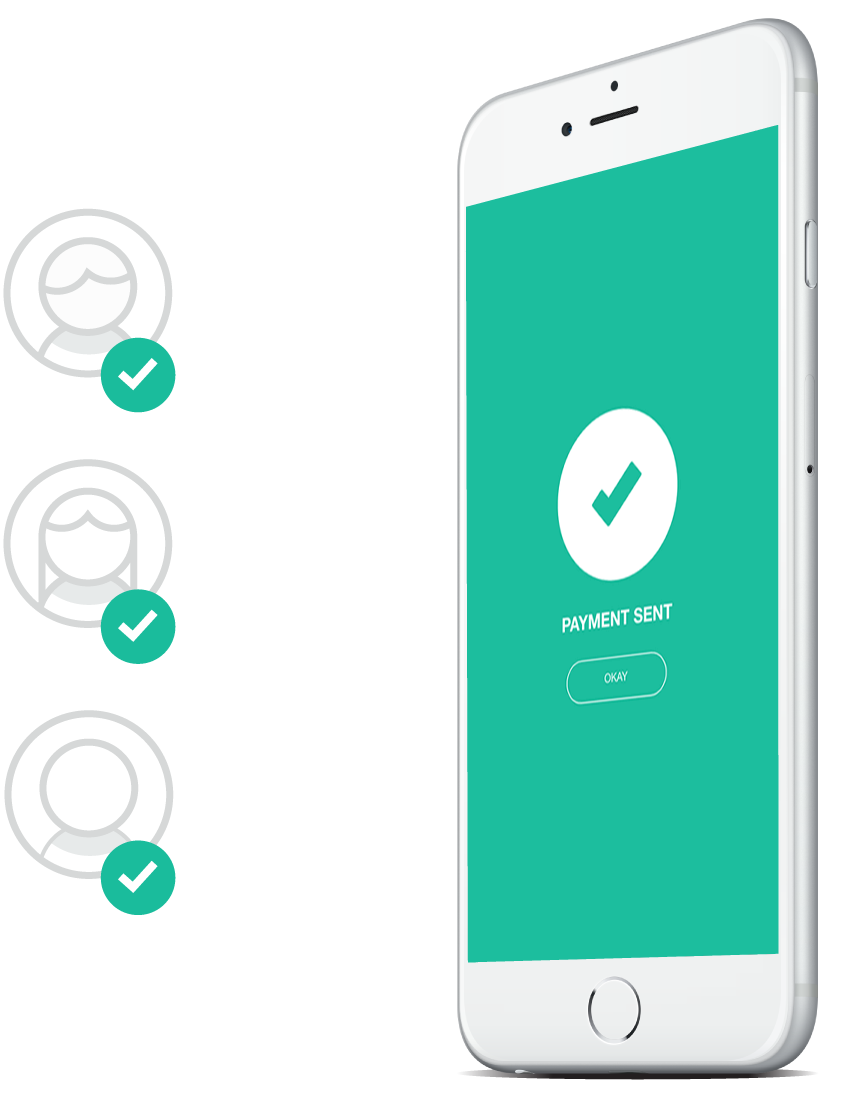
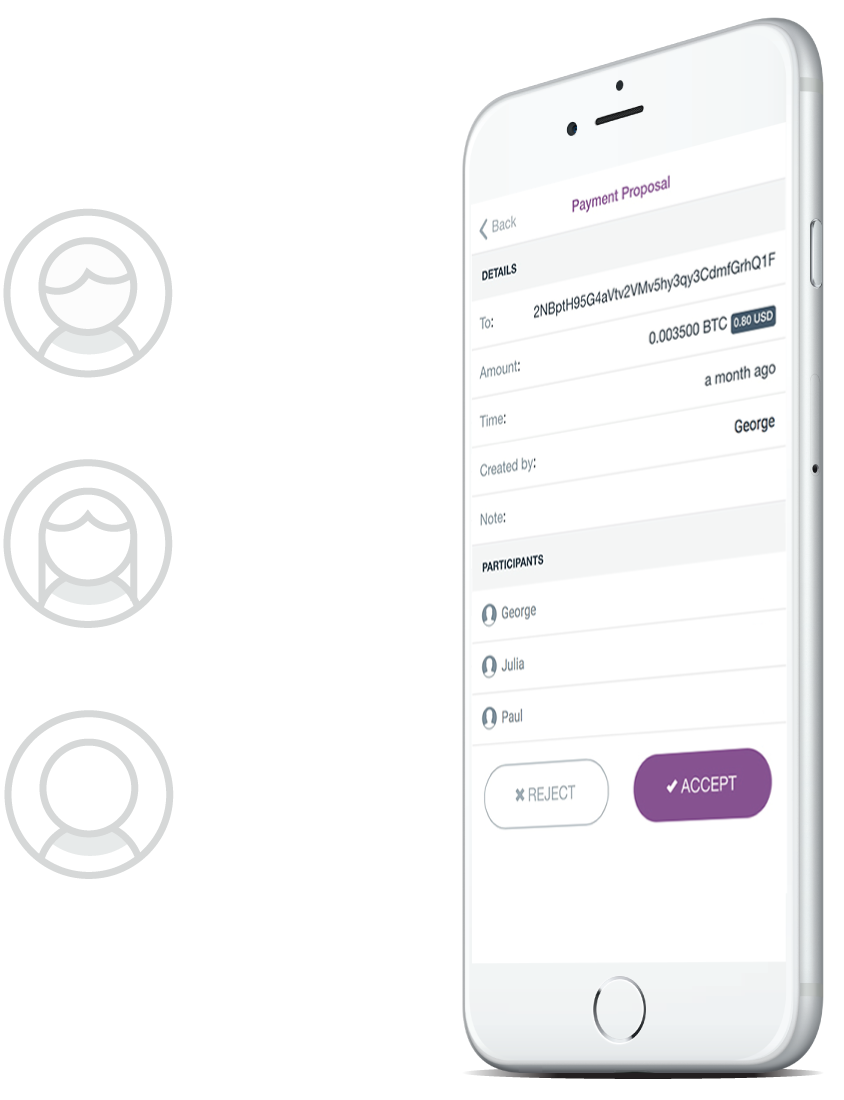
first animation beta

diff --git a/src/_styles/_elements.scss b/src/_styles/_elements.scss
@@ -65,6 +65,7 @@ a.download {
   margin: 0.7em;
 }
 
+
 a.lost-link{
   color:#748598;
   padding-bottom: 4px;
@@ -78,3 +79,65 @@ a:hover.lost-link{
   width: 250px;
   padding-bottom: 2em;
 }
+
+/*!
+ Elements for the animations
+ */
+
+ .relative {
+ position:relative
+ }
+
+ .user-checked {
+  width: 39px;
+  height: 39px;  
+  position: absolute;
+ }
+
+  .user-checked-phone {
+  width: 23px;
+  height: 29px;  
+  position: absolute;
+ }
+
+   .checked-screen {
+  position: absolute;
+  width: 138px;
+  height: 408.66px; 
+ }
+
+ .check-position1 {
+  left: 6em;
+  top: 4em;
+ }
+
+  .check-position2 {
+  left: 100px;
+  top: 100px;
+ }
+
+  .check-position3 {
+  left: 10%;
+  top: 10%;
+ }
+
+  .check-phone-position1 {
+  right: 2em;
+  top: 4em;
+ }
+
+  .check-phone-position2 {
+  right: 2em;
+  top: 4em;
+ }
+
+  .check-phone-position3 {
+  right: 2em;
+  top: 4em;
+ }
+
+ .checked-screen-position {
+  right: 4em;
+  bottom: 1em;
+  }
+

diff --git a/src/_styles/animations/_general.scss b/src/_styles/animations/_general.scss
@@ -1,4 +1,4 @@
-@for $i from 1 through 6 {
+@for $i from 1 through 10 {
   .delay-#{$i} {
     animation-delay: $i * 300ms;
   }

diff --git a/src/_styles/_utils.scss b/src/_styles/_utils.scss
@@ -99,3 +99,5 @@ $suffixes: (
 .circle {
   border-radius: 50%;
 }
+
+
